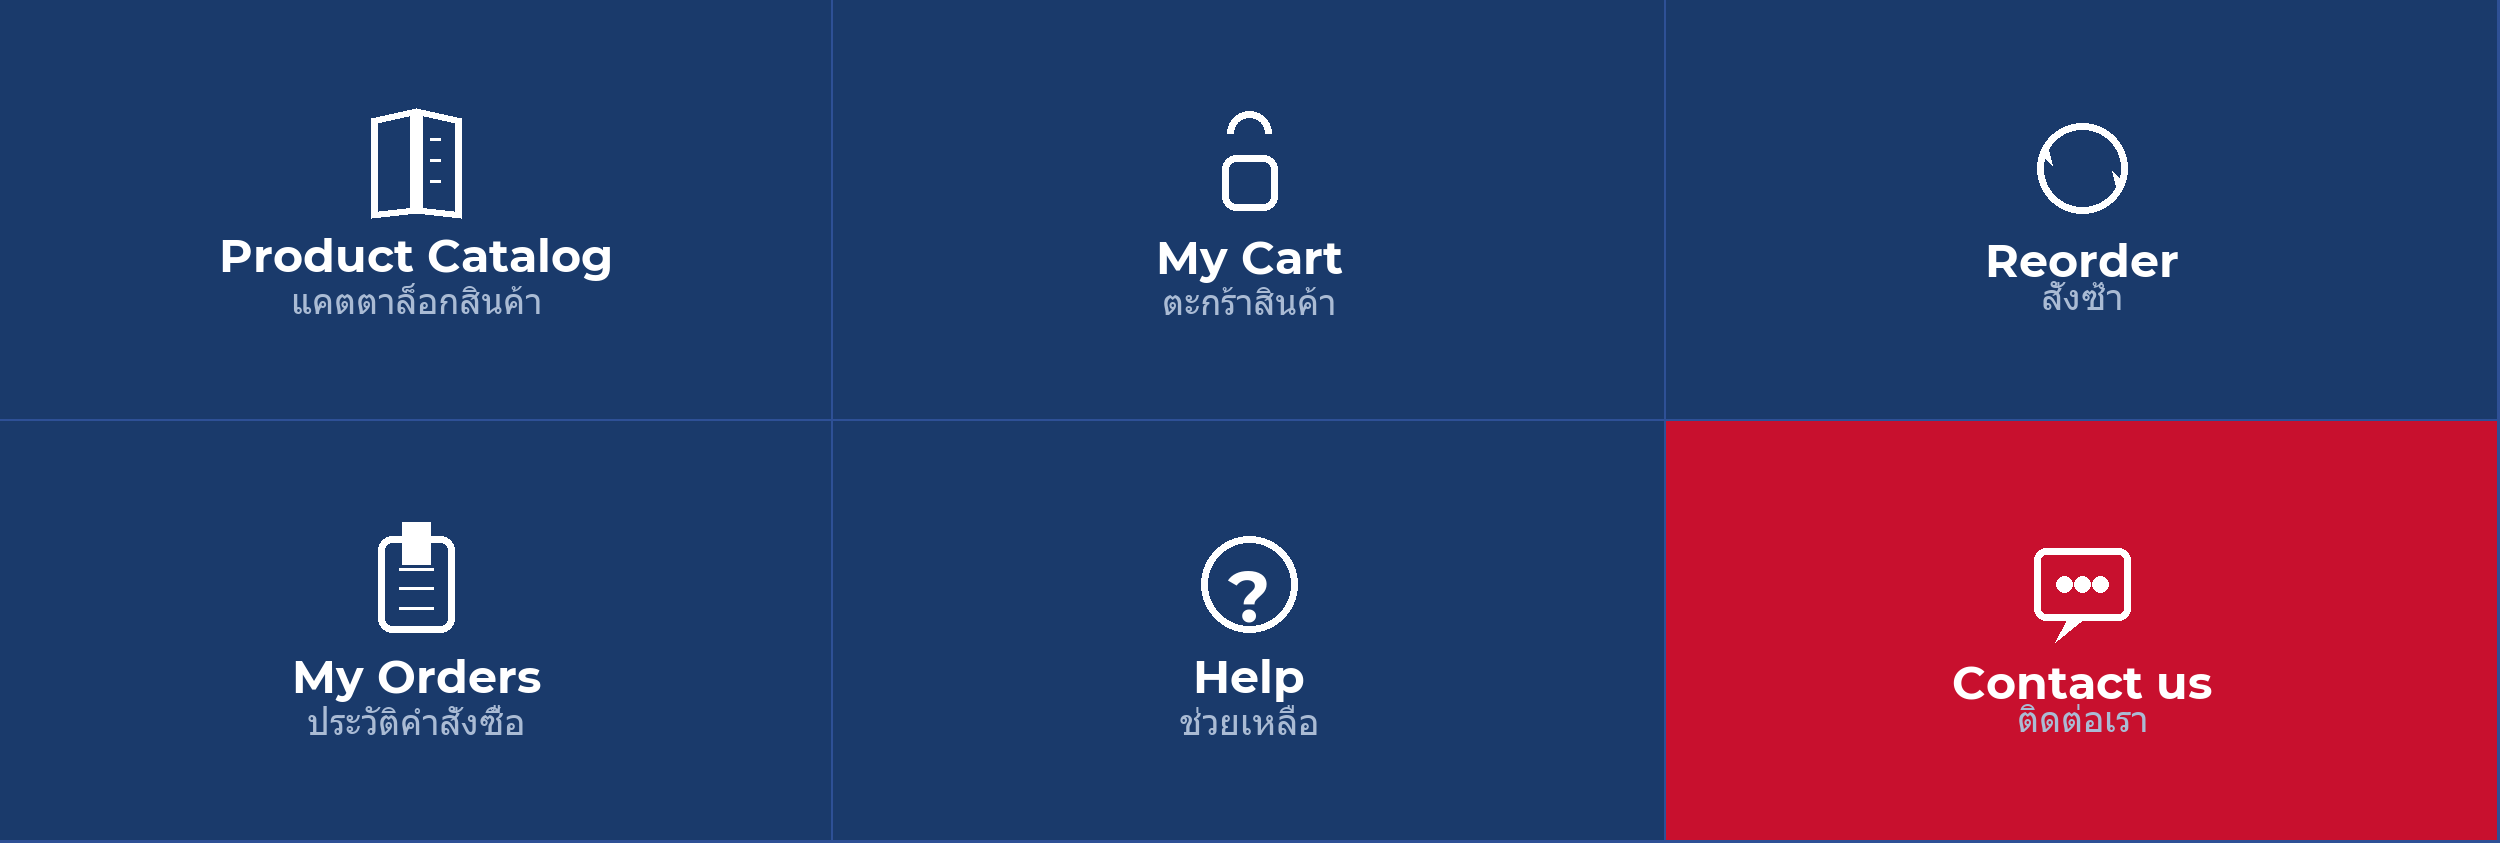
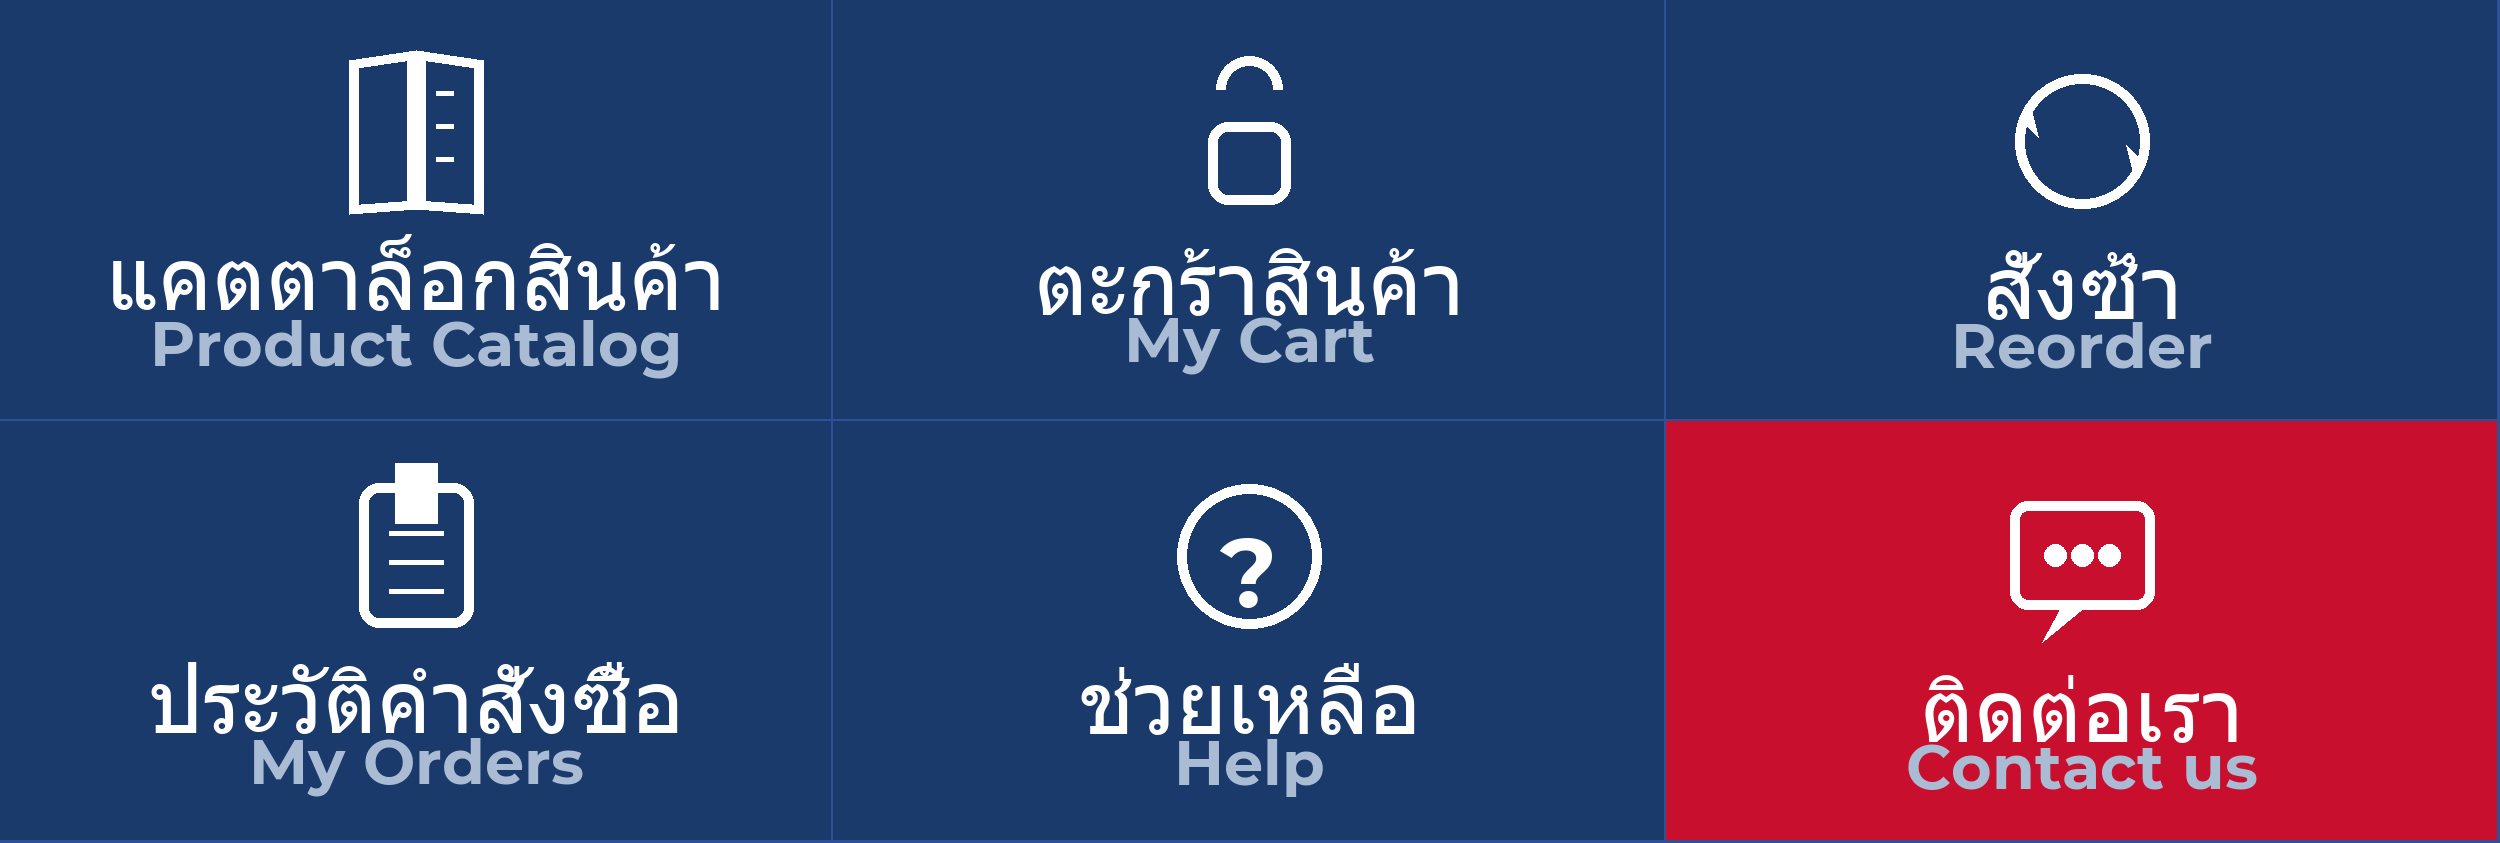
Rich Menu: Thai primary (88px), English secondary (62px), TH on top

diff --git a/setup_richmenu.py b/setup_richmenu.py
@@ -124,7 +124,7 @@ def draw_icon(d: ImageDraw, cx: int, cy: int, name: str, size: int):
         r = int(s * 0.48)
         d.ellipse([cx - r, cy - r, cx + r, cy + r], outline=c, width=lw)
         try:
-            fq = ImageFont.truetype(FONT_EN_BOLD, int(s * 0.72))
+            fq = ImageFont.truetype(FONT_EN_BOLD, int(s * 0.65))
         except Exception:
             fq = ImageFont.load_default()
         bb = d.textbbox((0, 0), "?", font=fq)
@@ -154,15 +154,15 @@ def make_image() -> Image.Image:
     d   = ImageDraw.Draw(img)
 
     try:
-        f_en = ImageFont.truetype(FONT_EN_BOLD, 46)
+        f_en = ImageFont.truetype(FONT_EN_BOLD, 62)
     except Exception:
         f_en = ImageFont.load_default()
     try:
-        f_th = ImageFont.truetype(FONT_THAI, 36)
+        f_th = ImageFont.truetype(FONT_THAI, 88)
     except Exception:
         f_th = f_en
 
-    ICON_SIZE = 100   # icon fits in this box
+    ICON_SIZE = 150   # icon fits in this box
 
     for (row, col, bg, icon_name, en_label, th_label, _action) in CELLS:
         x0, y0 = col * CW, row * CH
@@ -176,30 +176,29 @@ def make_image() -> Image.Image:
 
         cx = x0 + CW // 2
 
-        # Vertical layout: icon — EN label — TH label
-        # Total content height: ICON_SIZE + gap + en_h + gap + th_h
+        # Vertical layout: icon — TH label (big) — EN label (small)
         en_bb = d.textbbox((0, 0), en_label, font=f_en)
         en_h  = en_bb[3] - en_bb[1]
         th_bb = d.textbbox((0, 0), th_label, font=f_th)
         th_h  = th_bb[3] - th_bb[1]
 
         gap    = 14
-        total  = ICON_SIZE + gap + en_h + gap // 2 + th_h
+        total  = ICON_SIZE + gap + th_h + gap // 2 + en_h
         top    = y0 + (CH - total) // 2
 
         # Icon center
         icon_cy = top + ICON_SIZE // 2
         draw_icon(d, cx, icon_cy, icon_name, ICON_SIZE)
 
-        # English label
-        en_y = top + ICON_SIZE + gap
-        en_w = en_bb[2] - en_bb[0]
-        d.text((cx - en_w // 2, en_y), en_label, font=f_en, fill=WHITE)
-
-        # Thai label
-        th_y = en_y + en_h + gap // 2
+        # Thai label (primary — larger, on top)
+        th_y = top + ICON_SIZE + gap
         th_w = th_bb[2] - th_bb[0]
-        d.text((cx - th_w // 2, th_y), th_label, font=f_th, fill=LIGHT)
+        d.text((cx - th_w // 2, th_y), th_label, font=f_th, fill=WHITE)
+
+        # English label (secondary — smaller, below)
+        en_y = th_y + th_h + gap // 2
+        en_w = en_bb[2] - en_bb[0]
+        d.text((cx - en_w // 2, en_y), en_label, font=f_en, fill=LIGHT)
 
     return img
 
